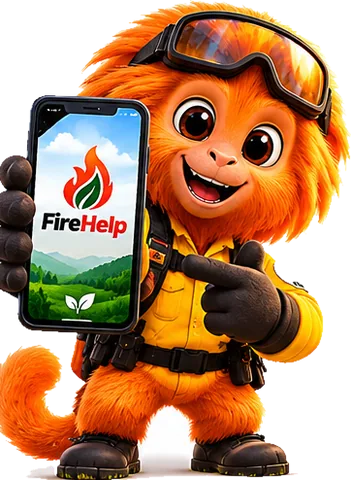
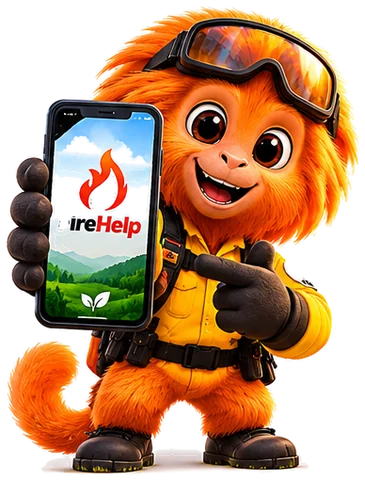
Mimo mais calmo e orgânico com emojis; poses recortadas de novo e sem distorção em todo o site
Claude-Session: https://claude.ai/code/session_01EXv8GyjhQHJqUQCA6X8aFn

diff --git a/styles/app.css b/styles/app.css
@@ -4,6 +4,8 @@
 @font-face { font-family: "Atkinson Hyperlegible"; src: url("/assets/fonts/atkinson-regular.woff") format("woff"); font-weight: 400; font-display: swap; }
 @font-face { font-family: "Atkinson Hyperlegible"; src: url("/assets/fonts/atkinson-bold.woff") format("woff"); font-weight: 700; font-display: swap; }
 
+:where(img[src*="/assets/mimo/"]) { height: auto; object-fit: contain; } /* poses do Mimo nunca distorcem */
+
 :root {
   --paper: #F2F5EE;      /* restinga: fundo */
   --card: #FFFFFF;
@@ -271,51 +273,42 @@ a.card:hover { border-color: var(--ink-3); }
 .hero-note .ic { color: #ff7a6a; margin-top: 3px; }
 .hero-note a { color: #fff; }
 .hero-mimo { position: relative; display: grid; justify-items: center; }
-/* Mimo vivo: camadas animadas (corpo, cabeça, mão, cauda) — dança, acena e comemora */
+/* Mimo vivo: movimentos calmos e orgânicos, com emojis */
 .mimo-live { --lx: 0; --ly: 0; position: relative; display: block; width: min(320px, 68vw); aspect-ratio: 3 / 4; padding: 0; border: 0; background: none; cursor: pointer; -webkit-tap-highlight-color: transparent; }
-.ml-glow { position: absolute; inset: 14% 4% 4%; border-radius: 50%; background: radial-gradient(circle, rgba(255, 196, 70, .65), rgba(233, 120, 27, .25) 45%, transparent 70%); filter: blur(22px); animation: breathe 2.4s ease-in-out infinite; }
-.ml-shadow { position: absolute; left: 22%; right: 18%; bottom: 1.5%; height: 5%; border-radius: 50%; background: radial-gradient(closest-side, rgba(0, 0, 0, .45), transparent); animation: mlShadow 1.2s ease-in-out infinite; }
-.ml-rig { position: absolute; inset: 0; transform-origin: 50% 96%; animation: mlDance 2.4s ease-in-out infinite; filter: drop-shadow(0 14px 18px rgba(0, 0, 0, .35)); }
-.ml-rig > img, .ml-head, .ml-nod, .ml-nod img { position: absolute; inset: 0; width: 100%; height: 100%; }
-.ml-cauda { transform-origin: 24.7% 67.4%; animation: mlTail 1.2s ease-in-out infinite alternate; }
-.ml-head { transform-origin: 59.9% 45.3%; transform: rotate(calc(var(--lx) * 6deg)) translate(calc(var(--lx) * 1.5%), calc(var(--ly) * 1.2%)); }
-.ml-nod { animation: mlNod 2.4s ease-in-out infinite; transform-origin: 59.9% 45.3%; }
-.ml-mao { transform-origin: 16.1% 34.4%; animation: mlWave 3.6s ease-in-out infinite; }
-.ml-lid { position: absolute; width: 12.2%; height: 8.6%; border-radius: 50% 50% 50% 50% / 60% 60% 40% 40%; background: linear-gradient(#e8823a, #d8692a 70%, #b8521a); border-bottom: 2.5px solid #3a1806; transform: scaleY(0); transform-origin: 50% 0; transition: transform .06s ease-in; }
+.ml-glow { position: absolute; inset: 14% 4% 4%; border-radius: 50%; background: radial-gradient(circle, rgba(255, 196, 70, .55), rgba(233, 120, 27, .2) 45%, transparent 70%); filter: blur(22px); animation: breathe 6s ease-in-out infinite; }
+.ml-shadow { position: absolute; left: 22%; right: 18%; bottom: 1.5%; height: 5%; border-radius: 50%; background: radial-gradient(closest-side, rgba(0, 0, 0, .4), transparent); animation: mlShadow 5.6s ease-in-out infinite; }
+.ml-rig { position: absolute; inset: 0; transform-origin: 50% 96%; animation: mlSway 5.6s cubic-bezier(.45, .05, .55, .95) infinite; filter: drop-shadow(0 14px 18px rgba(0, 0, 0, .35)); }
+.ml-breath { position: absolute; inset: 0; transform-origin: 50% 96%; animation: mlBreath 3.7s ease-in-out infinite; }
+.ml-breath > img, .ml-head, .ml-nod, .ml-nod img { position: absolute; inset: 0; width: 100%; height: 100%; }
+.ml-cauda { transform-origin: 24.7% 67.4%; animation: mlTail 3.3s cubic-bezier(.45, .05, .55, .95) infinite alternate; }
+.ml-head { transform-origin: 59.9% 45.3%; transform: rotate(calc(var(--lx) * 5deg)) translate(calc(var(--lx) * 1.2%), calc(var(--ly) * 1%)); transition: transform .5s ease-out; }
+.ml-nod { animation: mlNod 5.6s cubic-bezier(.45, .05, .55, .95) infinite; transform-origin: 59.9% 45.3%; }
+.ml-mao { transform-origin: 16.1% 34.4%; animation: mlWave 7.5s ease-in-out infinite; }
+.ml-lid { position: absolute; width: 12.2%; height: 8.6%; border-radius: 50% 50% 50% 50% / 60% 60% 40% 40%; background: linear-gradient(#e8823a, #d8692a 70%, #b8521a); border-bottom: 2.5px solid #3a1806; transform: scaleY(0); transform-origin: 50% 0; transition: transform .07s ease-in; }
 .ml-lid.l { left: 51.6%; top: 20%; rotate: -10deg; }
 .ml-lid.r { left: 69.4%; top: 25%; rotate: -12deg; }
 .mimo-live.blink .ml-lid { transform: scaleY(1); }
-.ml-sparks { position: absolute; inset: 0; pointer-events: none; }
-.ml-sparks i { position: absolute; bottom: 30%; width: 7px; height: 7px; border-radius: 50%; background: radial-gradient(circle, #fff6c8, #ffb02e 55%, transparent 70%); opacity: 0; animation: mlSpark 3.2s linear infinite; }
-.ml-sparks i:nth-child(1) { left: 12%; animation-delay: 0s; } .ml-sparks i:nth-child(2) { left: 30%; animation-delay: .8s; } .ml-sparks i:nth-child(3) { left: 84%; animation-delay: 1.5s; }
-.ml-sparks i:nth-child(4) { left: 70%; animation-delay: 2.2s; } .ml-sparks i:nth-child(5) { left: 48%; animation-delay: 2.8s; } .ml-sparks i:nth-child(6) { left: 92%; animation-delay: .4s; }
-.ml-heart { position: absolute; left: 62%; top: 8%; font-size: 26px; opacity: 0; pointer-events: none; }
-/* passar o mouse: fica empolgado */
-.mimo-live.happy .ml-rig { animation-duration: 1.2s; }
-.mimo-live.happy .ml-shadow { animation-duration: .6s; }
-.mimo-live.happy .ml-mao { animation: mlWaveFast .5s ease-in-out infinite; }
-.mimo-live.happy .ml-cauda { animation-duration: .45s; }
-/* comemoração (de tempos em tempos e ao clicar) */
-.mimo-live.party .ml-rig { animation: mlJump .9s cubic-bezier(.3, .7, .4, 1); }
-.mimo-live.party .ml-shadow { animation: mlShadowJump .9s cubic-bezier(.3, .7, .4, 1); }
-.mimo-live.party .ml-mao { animation: mlWaveFast .3s ease-in-out 3; }
-.mimo-live.party .ml-heart { animation: mlHeart 1.2s ease-out; }
+.ml-emos { position: absolute; inset: -10% -14% 20%; pointer-events: none; overflow: visible; }
+.ml-emo { position: absolute; bottom: 10%; font-size: 26px; line-height: 1; opacity: 0; filter: drop-shadow(0 3px 6px rgba(0, 0, 0, .3)); animation: mlFloat var(--dur, 4.5s) cubic-bezier(.2, .6, .35, 1) forwards; }
+.ml-emo.pop { animation: mlPop 1.6s cubic-bezier(.2, .9, .3, 1) forwards; }
+/* passar o mouse: acena mais e abana a cauda — sem pressa */
+.mimo-live.happy .ml-mao { animation: mlWaveHappy 1.6s ease-in-out infinite; }
+.mimo-live.happy .ml-cauda { animation-duration: 1.4s; }
+/* comemoração suave (de tempos em tempos e ao clicar) */
+.mimo-live.party .ml-breath { animation: mlHop 1.3s cubic-bezier(.33, .7, .4, 1); }
+.mimo-live.party .ml-shadow { animation: mlShadowHop 1.3s cubic-bezier(.33, .7, .4, 1); }
 .mimo-live:focus-visible { outline-offset: 6px; border-radius: 20px; }
-@keyframes mlDance {
-  0%, 100% { transform: translateY(0) rotate(-2.2deg) scale(1.025, .975); }
-  25% { transform: translateY(-4.5%) rotate(0) scale(.985, 1.02); }
-  50% { transform: translateY(0) rotate(2.2deg) scale(1.025, .975); }
-  75% { transform: translateY(-4.5%) rotate(0) scale(.985, 1.02); }
-}
-@keyframes mlShadow { 0%, 100% { transform: scale(1); opacity: 1; } 50% { transform: scale(.78); opacity: .6; } }
-@keyframes mlTail { from { transform: rotate(-9deg); } to { transform: rotate(9deg); } }
-@keyframes mlNod { 0%, 100% { transform: rotate(3.5deg) translateY(.6%); } 25%, 75% { transform: rotate(0) translateY(-.4%); } 50% { transform: rotate(-3.5deg) translateY(.6%); } }
-@keyframes mlWave { 0%, 100% { transform: rotate(4deg); } 10% { transform: rotate(-24deg); } 20% { transform: rotate(8deg); } 30% { transform: rotate(-24deg); } 40% { transform: rotate(8deg); } 50% { transform: rotate(-22deg); } 62% { transform: rotate(4deg); } }
-@keyframes mlWaveFast { 0%, 100% { transform: rotate(8deg); } 50% { transform: rotate(-26deg); } }
-@keyframes mlJump { 0% { transform: translateY(0) scale(1, 1); } 18% { transform: translateY(0) scale(1.08, .88); } 48% { transform: translateY(-16%) scale(.94, 1.08) rotate(-4deg); } 72% { transform: translateY(0) scale(1.07, .91); } 86% { transform: translateY(-2%) scale(.99, 1.01); } 100% { transform: translateY(0) scale(1, 1); } }
-@keyframes mlShadowJump { 0%, 100% { transform: scale(1); } 48% { transform: scale(.45); opacity: .35; } 72% { transform: scale(1.1); } }
-@keyframes mlSpark { 0% { transform: translateY(0) scale(.6); opacity: 0; } 15% { opacity: 1; } 100% { transform: translateY(-260%) translateX(12px) scale(1.1); opacity: 0; } }
-@keyframes mlHeart { 0% { transform: translateY(10px) scale(.4); opacity: 0; } 25% { transform: translateY(0) scale(1.15); opacity: 1; } 100% { transform: translateY(-46px) scale(.9); opacity: 0; } }
+@keyframes mlSway { 0%, 100% { transform: rotate(-1.6deg) translateX(-.6%); } 50% { transform: rotate(1.6deg) translateX(.6%); } }
+@keyframes mlBreath { 0%, 100% { transform: scale(1, 1) translateY(0); } 45% { transform: scale(1.006, 1.016) translateY(-.6%); } }
+@keyframes mlShadow { 0%, 100% { transform: translateX(-2%) scaleX(1); } 50% { transform: translateX(2%) scaleX(1); } }
+@keyframes mlTail { from { transform: rotate(-6deg); } to { transform: rotate(7deg); } }
+@keyframes mlNod { 0%, 100% { transform: rotate(2.2deg); } 50% { transform: rotate(-2.4deg) translateY(-.4%); } }
+@keyframes mlWave { 0%, 58%, 100% { transform: rotate(0); } 64% { transform: rotate(-17deg); } 71% { transform: rotate(6deg); } 78% { transform: rotate(-15deg); } 85% { transform: rotate(5deg); } 92% { transform: rotate(-4deg); } }
+@keyframes mlWaveHappy { 0%, 100% { transform: rotate(5deg); } 50% { transform: rotate(-18deg); } }
+@keyframes mlHop { 0% { transform: translateY(0) scale(1, 1); } 20% { transform: translateY(0) scale(1.03, .96); } 50% { transform: translateY(-7%) scale(.985, 1.02); } 78% { transform: translateY(0) scale(1.02, .98); } 100% { transform: translateY(0) scale(1, 1); } }
+@keyframes mlShadowHop { 0%, 100% { transform: scale(1); } 50% { transform: scale(.7); opacity: .5; } }
+@keyframes mlFloat { 0% { transform: translate(0, 10px) scale(.5) rotate(var(--r0, 0deg)); opacity: 0; } 15% { opacity: 1; transform: translate(calc(var(--dx, 0px) * .2), -10px) scale(1) rotate(0deg); } 70% { opacity: .95; } 100% { transform: translate(var(--dx, 0px), -170px) scale(.85) rotate(var(--r1, 8deg)); opacity: 0; } }
+@keyframes mlPop { 0% { transform: translate(0, 0) scale(.3); opacity: 0; } 25% { opacity: 1; transform: translate(calc(var(--dx) * .5), calc(var(--dy) * .5)) scale(1.2); } 100% { transform: translate(var(--dx), var(--dy)) scale(.9); opacity: 0; } }
 .mimo-say.swap { opacity: .0; transform: translateY(4px); }
 .mimo-say { transition: opacity .25s, transform .25s; }
 @keyframes breathe { 50% { transform: scale(1.08); opacity: .8; } }
@@ -419,9 +412,9 @@ a.card:hover { border-color: var(--ink-3); }
 @media (max-width: 900px) { .news-grid { grid-template-columns: 1fr 1fr; } .news-card.lead-story { grid-column: 1 / -1; grid-template-columns: 1fr; } }
 @media (max-width: 600px) { .news-grid { grid-template-columns: 1fr; } }
 
-.mimo-band { display: grid; grid-template-columns: 180px 1fr; gap: 26px; align-items: center; background: var(--gold-soft); border-radius: var(--r-l); padding: 22px 28px 0; overflow: hidden; }
-.mimo-band img { align-self: end; }
-.mimo-band .tips { display: grid; gap: 10px; padding-bottom: 22px; margin: 12px 0 0; list-style: none; padding-left: 0; }
+.mimo-band { display: grid; grid-template-columns: 190px 1fr; gap: 28px; align-items: center; background: var(--gold-soft); border-radius: var(--r-l); padding: 24px 32px; }
+.mimo-band img { width: 100%; max-height: 230px; object-fit: contain; filter: drop-shadow(0 10px 16px rgba(185, 110, 0, .3)); }
+.mimo-band .tips { display: grid; gap: 10px; margin: 12px 0 18px; list-style: none; padding-left: 0; }
 .mimo-band li { display: flex; gap: 10px; align-items: flex-start; }
 .mimo-band li .ic { color: var(--ok); margin-top: 4px; }
 @media (max-width: 700px) { .mimo-band { grid-template-columns: 1fr; padding-top: 22px; } .mimo-band img { display: none; } }
@@ -560,7 +553,7 @@ main.bleed + .foot { margin-top: 0; }
 .auth-wrap { display: grid; grid-template-columns: 1fr 1fr; min-height: calc(100dvh - var(--top-h) - var(--tab-h)); }
 .auth-art { background: var(--ink); color: #fff; padding: 48px; display: grid; align-content: center; gap: 16px; position: relative; overflow: hidden; }
 .auth-art .lead { color: #c7d6cf; max-width: calc(100% - 200px); }
-.auth-art img { position: absolute; right: 24px; bottom: 0; width: 220px; }
+.auth-art img { position: absolute; right: 28px; bottom: 28px; width: 210px; }
 .auth-form { padding: 40px 24px; display: grid; place-items: center; }
 .auth-form form { width: min(400px, 100%); display: grid; gap: 14px; }
 .or { display: flex; align-items: center; gap: 12px; color: var(--ink-3); font-size: .9rem; }

diff --git a/app/pages/home.js b/app/pages/home.js
@@ -60,14 +60,13 @@ export default async function home({ el }) {
         <button class="mimo-live" type="button" id="mimo-live" aria-label="Conversar com o Mimo">
           <span class="ml-glow" aria-hidden="true"></span>
           <span class="ml-shadow" aria-hidden="true"></span>
-          <span class="ml-sparks" aria-hidden="true"><i></i><i></i><i></i><i></i><i></i><i></i></span>
-          <span class="ml-heart" aria-hidden="true">🧡</span>
-          <span class="ml-rig" aria-hidden="true">
+          <span class="ml-rig" aria-hidden="true"><span class="ml-breath">
             <img class="ml-cauda" src="/assets/mimo/heroi-cauda.webp" alt="" width="576" height="768">
             <img class="ml-corpo" src="/assets/mimo/heroi-corpo.webp" alt="" width="576" height="768">
             <span class="ml-head"><span class="ml-nod"><img src="/assets/mimo/heroi-cabeca.webp" alt="" width="576" height="768"><i class="ml-lid l"></i><i class="ml-lid r"></i></span></span>
             <img class="ml-mao" src="/assets/mimo/heroi-mao.webp" alt="" width="576" height="768">
-          </span>
+          </span></span>
+          <span class="ml-emos" aria-hidden="true"></span>
         </button>
       </div>
     </div>
@@ -124,7 +123,7 @@ export default async function home({ el }) {
             <li>${icon("check")} Mantenha o terreno limpo e o mato baixo perto da casa, principalmente na estiagem.</li>
             <li>${icon("check")} Bituca de cigarro só no lixo, nunca na beira da estrada ou na areia.</li>
           </ul>
-          <p style="margin:-8px 0 22px"><a class="btn btn-ink btn-sm" href="/como-funciona#prevencao">Mais dicas de prevenção</a></p>
+          <a class="btn btn-ink btn-sm" href="/como-funciona#prevencao">Mais dicas de prevenção</a>
         </div>
       </div>
     </div>
@@ -169,60 +168,92 @@ export default async function home({ el }) {
   return () => { alive = false; stopMimo(); mapRef?.remove(); };
 }
 
-// Mimo do topo: olha para o cursor, pisca, acena, balança a cauda e reage ao toque.
+// Mimo do topo: respira, balança, acena, olha para o cursor, pisca e solta emojis.
 const FALAS = [
-  "Oi! Eu sou o Mimo. Posso te ajudar a avisar um foco ou tirar dúvidas sobre prevenção.",
-  "Viu fumaça? Tire uma foto de longe e me mostre — eu confiro pra você!",
-  "Sabia? A restinga de Saquarema pega fogo rapidinho na seca. Nada de queimar lixo!",
-  "Fogo perto de casas ou pessoas? Ligue 193 primeiro, depois avise aqui.",
-  "Eu sou um mico-leão-dourado: minha família mora na Mata Atlântica do Rio. 🧡",
+  "Oi! 👋 Eu sou o Mimo. Posso te ajudar a avisar um foco ou tirar dúvidas sobre prevenção.",
+  "Viu fumaça? 📸 Tire uma foto de longe e me mostre — eu confiro pra você!",
+  "A restinga de Saquarema pega fogo rapidinho na seca 🌿 Nada de queimar lixo, combinado?",
+  "Fogo perto de casas ou pessoas? 🚒 Ligue 193 primeiro, depois avise aqui.",
+  "Sou um mico-leão-dourado 🧡 Minha família mora na Mata Atlântica do Rio!",
+  "Bituca de cigarro só no lixo, tá? 🚭 Na beira da estrada vira incêndio.",
 ];
+const EMOJIS_CALMOS = ["🌿", "🧡", "💧", "🌳", "✨", "🍃"];
+const EMOJIS_FESTA = ["🎉", "🧡", "✨", "👋", "🌟", "💛"];
 function animateMimo(root) {
   const live = root.querySelector("#mimo-live");
   const say = root.querySelector("#mimo-say-txt");
+  const emos = root.querySelector(".ml-emos");
   if (!live) return () => {};
-  const reduce = false; // o Mimo se mexe sempre (pedido do dono do site)
-  let raf = 0, tx = 0, ty = 0, cx = 0, cy = 0, i = 0;
+  let raf = 0, tx = 0, ty = 0, cx = 0, cy = 0, i = 0, alive = true;
+  const timers = new Set();
+  const later = (fn, ms) => { const t = setTimeout(() => { timers.delete(t); if (alive) fn(); }, ms); timers.add(t); };
+  const rnd = (a, b) => a + Math.random() * (b - a);
+  const pick = (arr) => arr[Math.floor(Math.random() * arr.length)];
+
   const onMove = (e) => {
     const r = live.getBoundingClientRect();
-    const px = (e.touches?.[0] || e).clientX, py = (e.touches?.[0] || e).clientY;
-    tx = Math.max(-1, Math.min(1, (px - (r.left + r.width * 0.62)) / (innerWidth * 0.5)));
-    ty = Math.max(-1, Math.min(1, (py - (r.top + r.height * 0.3)) / (innerHeight * 0.6)));
+    tx = Math.max(-1, Math.min(1, (e.clientX - (r.left + r.width * 0.62)) / (innerWidth * 0.5)));
+    ty = Math.max(-1, Math.min(1, (e.clientY - (r.top + r.height * 0.3)) / (innerHeight * 0.6)));
   };
   const loop = () => {
-    cx += (tx - cx) * 0.08; cy += (ty - cy) * 0.08; // segue o cursor com suavidade
+    cx += (tx - cx) * 0.04; cy += (ty - cy) * 0.04; // segue o cursor devagar, sem tremer
     live.style.setProperty("--lx", cx.toFixed(3));
     live.style.setProperty("--ly", cy.toFixed(3));
     raf = requestAnimationFrame(loop);
   };
-  const blink = () => { live.classList.add("blink"); setTimeout(() => live.classList.remove("blink"), 120); };
-  let blinkT = 0;
-  const scheduleBlink = () => { blinkT = setTimeout(() => { blink(); if (Math.random() < 0.25) setTimeout(blink, 280); scheduleBlink(); }, 2600 + Math.random() * 3200); };
+
+  // emoji que sobe flutuando, com deriva e giro diferentes a cada vez
+  const floatEmoji = (list = EMOJIS_CALMOS) => {
+    if (!emos || document.hidden) return;
+    const e = document.createElement("span");
+    e.className = "ml-emo"; e.textContent = pick(list);
+    e.style.left = `${rnd(8, 88)}%`;
+    e.style.fontSize = `${rnd(18, 30)}px`;
+    e.style.setProperty("--dx", `${rnd(-40, 40)}px`);
+    e.style.setProperty("--r0", `${rnd(-25, 25)}deg`);
+    e.style.setProperty("--r1", `${rnd(-20, 20)}deg`);
+    e.style.setProperty("--dur", `${rnd(4, 6.5)}s`);
+    emos.append(e); e.addEventListener("animationend", () => e.remove());
+  };
+  const burst = (n = 7) => {
+    for (let k = 0; k < n; k++) {
+      const e = document.createElement("span");
+      e.className = "ml-emo pop"; e.textContent = pick(EMOJIS_FESTA);
+      const ang = (-160 + (140 / (n - 1)) * k) * Math.PI / 180, dist = rnd(80, 130);
+      e.style.left = "52%"; e.style.bottom = "62%";
+      e.style.setProperty("--dx", `${Math.cos(ang) * dist}px`);
+      e.style.setProperty("--dy", `${Math.sin(ang) * dist}px`);
+      e.style.animationDelay = `${k * 40}ms`;
+      emos.append(e); e.addEventListener("animationend", () => e.remove());
+    }
+  };
+  const nextEmoji = () => later(() => { floatEmoji(); nextEmoji(); }, rnd(2200, 4200));
+  nextEmoji();
+
+  const blink = () => { live.classList.add("blink"); later(() => live.classList.remove("blink"), 130); };
+  const nextBlink = () => later(() => { blink(); if (Math.random() < 0.25) later(blink, 300); nextBlink(); }, rnd(2800, 6000));
+  nextBlink();
+
+  const party = () => {
+    live.classList.remove("party"); void live.offsetWidth; live.classList.add("party");
+    burst();
+    later(() => live.classList.remove("party"), 1350);
+  };
+  const nextParty = () => later(() => { if (!document.hidden) party(); nextParty(); }, rnd(14000, 22000));
+  nextParty();
+
   const talk = setInterval(() => {
     if (document.hidden || !say) return;
     i = (i + 1) % FALAS.length;
     say.parentElement.classList.add("swap");
-    setTimeout(() => { say.textContent = FALAS[i]; say.parentElement.classList.remove("swap"); }, 250);
-  }, 8000);
-  const party = () => {
-    live.classList.remove("party"); void live.offsetWidth; live.classList.add("party");
-    setTimeout(() => live.classList.remove("party"), 1250);
-  };
-  let partyT = 0;
-  const scheduleParty = () => { partyT = setTimeout(() => { if (!document.hidden) party(); scheduleParty(); }, 7000 + Math.random() * 5000); };
-  scheduleParty();
-  const poke = () => {
-    party();
-    blink();
-    setTimeout(() => root.querySelector("#mimo-say")?.click(), 380); // abre a conversa
-  };
-  live.addEventListener("click", poke);
-  live.addEventListener("pointerenter", () => live.classList.add("happy"));
+    later(() => { say.textContent = FALAS[i]; say.parentElement.classList.remove("swap"); }, 300);
+  }, 9000);
+
+  live.addEventListener("click", () => { party(); blink(); later(() => root.querySelector("#mimo-say")?.click(), 650); });
+  live.addEventListener("pointerenter", () => { live.classList.add("happy"); floatEmoji(["👋", "😊", "🧡"]); });
   live.addEventListener("pointerleave", () => live.classList.remove("happy"));
-  if (!reduce) {
-    addEventListener("pointermove", onMove, { passive: true });
-    raf = requestAnimationFrame(loop);
-    scheduleBlink();
-  }
-  return () => { cancelAnimationFrame(raf); clearTimeout(blinkT); clearTimeout(partyT); clearInterval(talk); removeEventListener("pointermove", onMove); };
+  addEventListener("pointermove", onMove, { passive: true });
+  raf = requestAnimationFrame(loop);
+
+  return () => { alive = false; cancelAnimationFrame(raf); timers.forEach(clearTimeout); clearInterval(talk); removeEventListener("pointermove", onMove); };
 }
